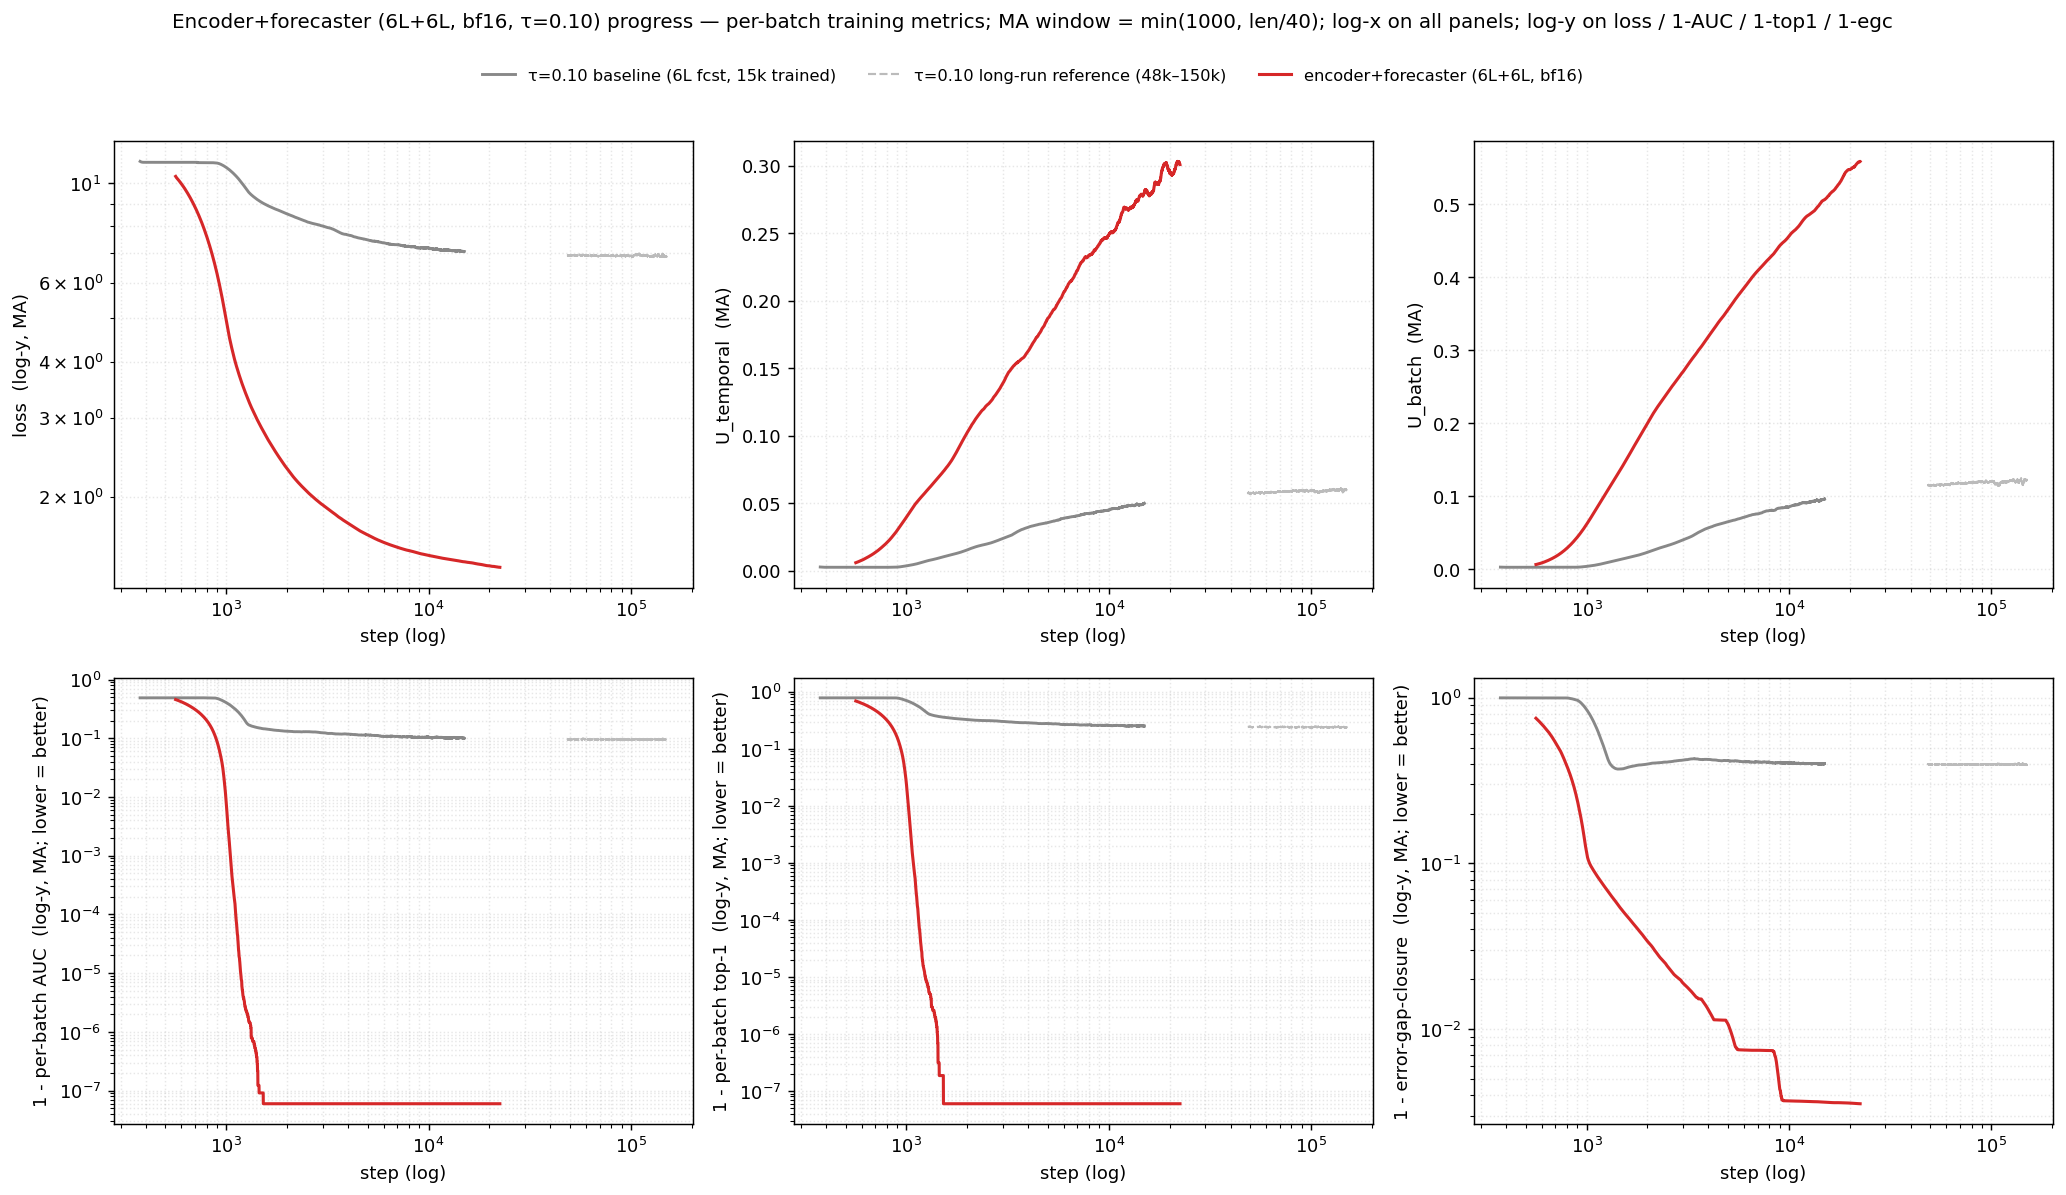
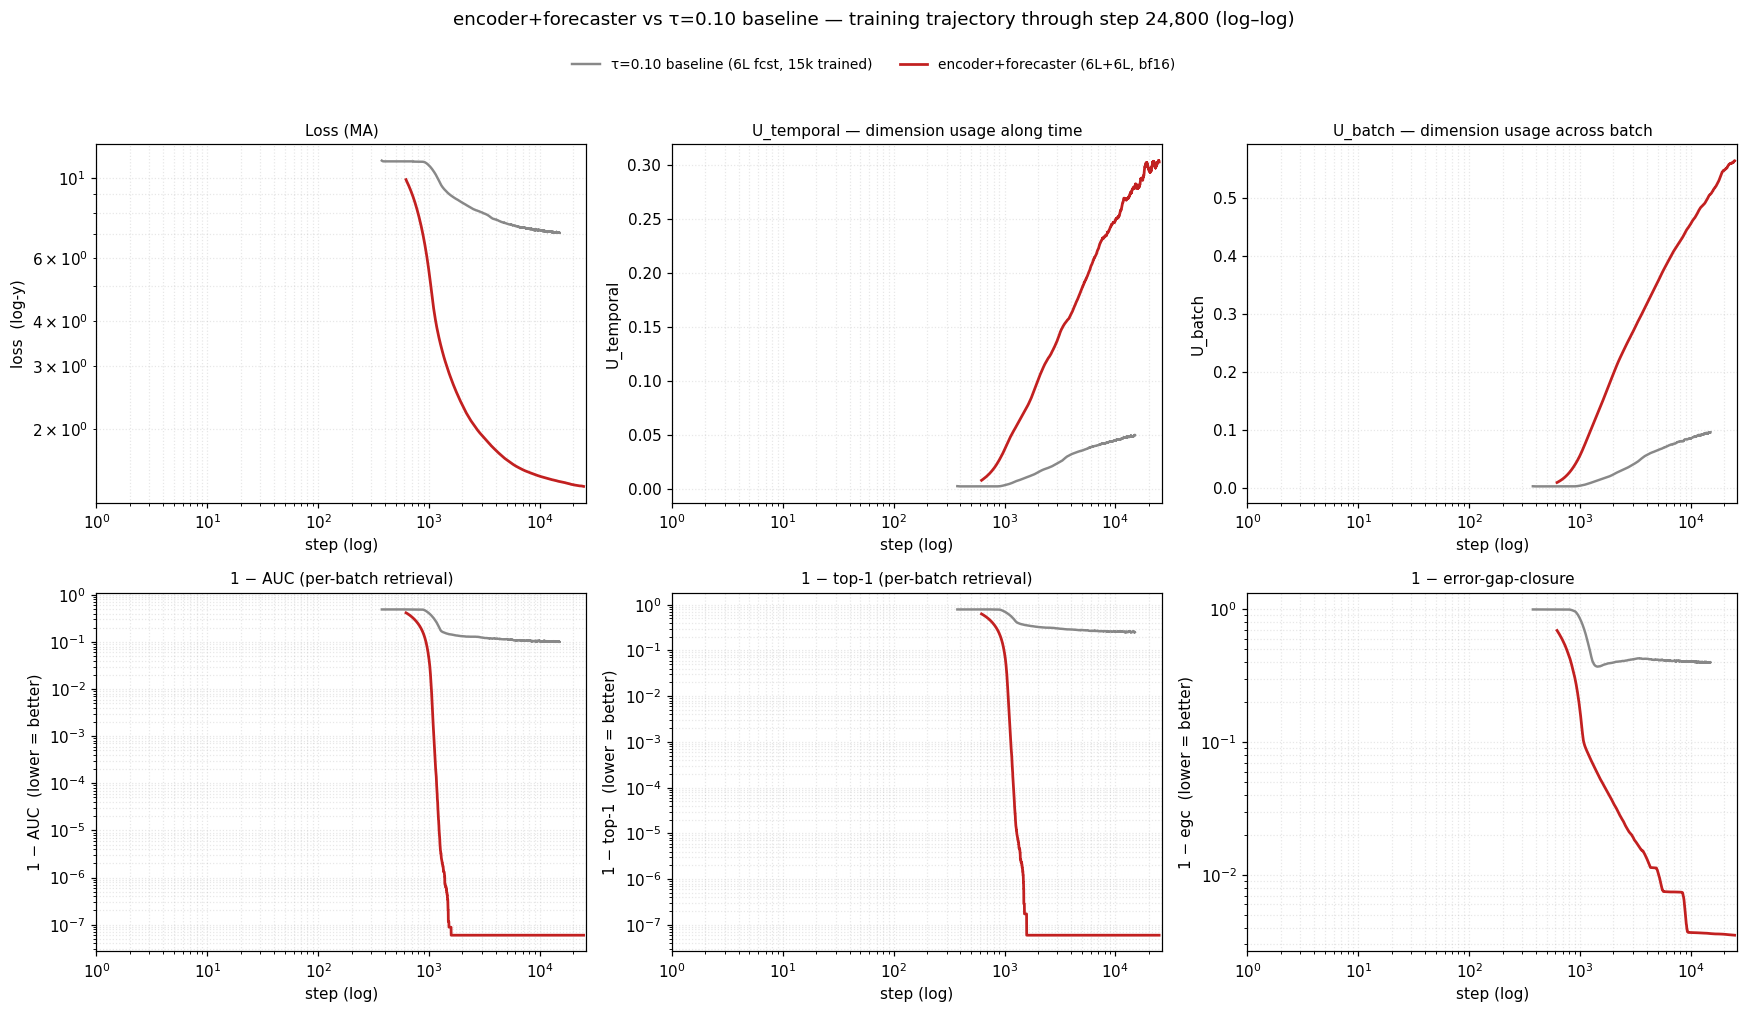
exp(encoder-forecaster): revised plots — color scheme + clipped x-axis + linear sibling
Pulls colors from experiments/2026-05-09_exp_loss_extensions/scripts/plot_square_diagram.py
(C_TOPB grey for baseline, C_RIGHT red for the new arm). Clips x-axis to
the new arm's current max step plus a small margin so the trajectory is
not visually compressed by the long-baseline 48k-150k overlay. Adds
panel-level titles and a configuration-aware suptitle.

Adds plots/progress_linear.png (same panels, no log axes; AUC/top-1/egc
still on 1-metric to keep small differences readable). PROGRESS.md
embeds both PNGs with explicit "log-log" / "linear" labels and is
re-rendered against the latest CSV slice (24,800 step current).

diff --git a/experiments/2026-05-10_exp_encoder_forecaster/scripts/plot_progress.py b/experiments/2026-05-10_exp_encoder_forecaster/scripts/plot_progress.py
@@ -4,14 +4,18 @@
 Reads per-step training-batch metrics from the losses CSVs and renders a
 2x3 panel of trajectories smoothed with a moving average:
 
-    loss (log-y)         |  U_temporal              |  U_batch
+    loss                 |  U_temporal              |  U_batch
     1 - per-batch AUC    |  1 - per-batch top-1     |  1 - error-gap-closure
-    (all log-y)            (log-y)                    (log-y)
 
-x-axis is `log(step)` on every panel. The `1 - metric` transform on a
-log y-axis (used in the τ-sweep plots) magnifies residual differences
-near the saturation point (auc/top1 → 1) while compressing the noisy
-plateau.
+Two PNGs are produced in one call:
+
+    plots/progress.png        — log-x on all panels; log-y on
+                                loss / 1-AUC / 1-top1 / 1-egc
+    plots/progress_linear.png — same panels, linear x; linear y for
+                                loss / U_temporal / U_batch; the AUC /
+                                top-1 / egc panels still show `1-metric`
+                                (linear y) so small residuals near 1 are
+                                visible.
 
 Error-gap-closure is a derived metric:
     egc = 1 - (1 - ff) / (1 - fp)
@@ -21,8 +25,10 @@ forecast and past embeddings (cross-batch reference). When fp < 1,
 egc=1 ⇒ perfect (ff=1), egc=0 ⇒ no improvement over fp, egc<0 ⇒ fp > ff.
 Guards: rows with fp ≥ 1 (denominator ≤ 0) are masked out of the plot.
 
-Outputs:
-    experiments/2026-05-10_exp_encoder_forecaster/plots/progress.png
+The x-axis upper bound is set from the new arm's current max step
+(plus a small margin), so the in-progress arm fills the figure instead
+of being squashed against the 150k long-baseline reference. The
+long-baseline reference curve is clipped to the visible x-range.
 
 Re-runnable. Worktree path is the script root; source CSVs are read
 from the MAIN checkout where the training writes them. No GPU usage.
@@ -38,29 +44,43 @@ import numpy as np
 
 
 # This script lives in <worktree>/experiments/2026-05-10_exp_encoder_forecaster/scripts.
-# Its output plot goes back into the same worktree experiment dir.
+# Its output plots go back into the same worktree experiment dir.
 WORKTREE = Path(__file__).resolve().parents[3]
 EXP_DIR = WORKTREE / "experiments/2026-05-10_exp_encoder_forecaster"
-OUT = EXP_DIR / "plots/progress.png"
-OUT.parent.mkdir(parents=True, exist_ok=True)
+OUT_LOG = EXP_DIR / "plots/progress.png"
+OUT_LIN = EXP_DIR / "plots/progress_linear.png"
+OUT_LOG.parent.mkdir(parents=True, exist_ok=True)
 
 # Training CSVs are written by the live run into the MAIN checkout. We
 # read from there read-only — never write into that tree.
 MAIN = Path("/home/jupyter/contrastive-forecasting")
 
-# (display_label, color, linestyle, lw, csv_path)
+# Color palette: reuse loss-extensions/τ-sweep conventions.
+#   - τ=0.10 baseline arms → grey  (#888 short, #bbb long reference, dashed)
+#   - encoder+forecaster (new "headline" arm) → loss-extensions
+#     "highlight new" red `#c22020` (square_diagram.py C_RIGHT — the
+#     NEW h-side batch edge, used as the boldest headline colour).
+C_BASELINE = "#888888"
+C_LONG_REF = "#bbbbbb"
+C_HEADLINE = "#c22020"
+
+# (display_label, color, linestyle, lw, csv_path, is_long_ref)
 ARMS = [
     ("τ=0.10 baseline (6L fcst, 15k trained)",
-     "#888888", "-", 1.6,
-     MAIN / "sync_tau_sweep/checkpoints/tau_sweep_0_10_losses.csv"),
+     C_BASELINE, "-", 1.6,
+     MAIN / "sync_tau_sweep/checkpoints/tau_sweep_0_10_losses.csv",
+     False),
     ("τ=0.10 long-run reference (48k–150k)",
-     "#bbbbbb", "--", 1.2,
-     MAIN / "sync_tau_sweep_0_10_150k/checkpoints/tau_sweep_0_10_150k_losses.csv"),
+     C_LONG_REF, "--", 1.2,
+     MAIN / "sync_tau_sweep_0_10_150k/checkpoints/tau_sweep_0_10_150k_losses.csv",
+     True),
     ("encoder+forecaster (6L+6L, bf16)",
-     "#d62728", "-", 1.7,
-     MAIN / "checkpoints/enc_fcst_tau_0_10_50k_losses.csv"),
+     C_HEADLINE, "-", 1.8,
+     MAIN / "checkpoints/enc_fcst_tau_0_10_50k_losses.csv",
+     False),
 ]
 
+NEW_ARM_CSV = MAIN / "checkpoints/enc_fcst_tau_0_10_50k_losses.csv"
 
 COLS = ("loss", "ff", "fp", "u_temporal", "u_batch", "auc", "top1")
 
@@ -82,7 +102,6 @@ def load_traj(path: Path) -> dict | None:
         out[k] = np.array([float(r[k]) for r in rows], dtype=np.float64)
     # derived: error-gap-closure = 1 - (1-ff)/(1-fp)
     denom = 1.0 - out["fp"]
-    # mask fp >= 1 (denom <= 0); rare in practice
     with np.errstate(divide="ignore", invalid="ignore"):
         egc = np.where(denom > 0, 1.0 - (1.0 - out["ff"]) / denom, np.nan)
     out["egc"] = egc
@@ -106,12 +125,19 @@ def last_window_mean(arr, n=200):
     return float(np.mean(a)) if len(a) else float("nan")
 
 
-def plot_panel(ax, traj_by_label, *, key, ylabel, transform, logy):
+def plot_panel(
+    ax, traj_by_label, *, key, ylabel, panel_title,
+    transform, logy, logx, xlim,
+):
     """Render one metric panel for all arms.
 
-    transform(y) optionally maps y → 1-y so log-y shows residual to 1.
+    transform(y) optionally maps y → 1-y so y-axis shows residual to 1.
+    Curves are clipped to xlim so the long-baseline reference doesn't
+    extend past the in-progress arm's visible window (it's still
+    rendered, just clipped to xlim[0]…xlim[1]).
     """
-    for (label, color, ls, lw, _path), arm in traj_by_label:
+    xmin, xmax = xlim
+    for (label, color, ls, lw, _path, _ref), arm in traj_by_label:
         if arm is None:
             continue
         n = len(arm["step"])
@@ -119,38 +145,127 @@ def plot_panel(ax, traj_by_label, *, key, ylabel, transform, logy):
         w = max(20, min(1000, n // 40))
         y = arm[key]
         y = transform(y) if transform is not None else y
-        # If transformed, mask non-positive entries before log so the plot
-        # doesn't error out (no clipping silently changes the curve).
+        # If transformed and log-y, mask non-positive entries before log
+        # so the plot doesn't error out (no clipping silently changes
+        # the curve).
         if logy and transform is not None:
             mask = np.isfinite(y) & (y > 0)
-            if not mask.any():
-                continue
-            x_steps = arm["step"][mask]
-            y = y[mask]
         else:
             mask = np.isfinite(y)
-            x_steps = arm["step"][mask]
-            y = y[mask]
+        if not mask.any():
+            continue
+        x_steps = arm["step"][mask]
+        y = y[mask]
         x_sm, y_sm = _aligned_smooth(x_steps, y, w)
-        ax.plot(x_sm, y_sm, color=color, linestyle=ls,
+        # Clip to the visible x-window. Without this the long-baseline
+        # reference would extend out to step 150k off-screen.
+        in_win = (x_sm >= xmin) & (x_sm <= xmax)
+        if not in_win.any():
+            continue
+        ax.plot(x_sm[in_win], y_sm[in_win], color=color, linestyle=ls,
                 linewidth=lw, label=label)
-    ax.set_xscale("log")
+    if logx:
+        ax.set_xscale("log")
     if logy:
         ax.set_yscale("log")
-    ax.set_xlabel("step (log)")
+    ax.set_xlim(xmin, xmax)
+    ax.set_title(panel_title, fontsize=10)
+    ax.set_xlabel("step" + (" (log)" if logx else ""))
     ax.set_ylabel(ylabel)
     ax.grid(alpha=0.3, which="both", ls=":")
 
 
+def render_figure(traj, *, logx, logy_metrics, out_path, scale_tag, xmax):
+    """Render one figure (log–log or linear) into `out_path`.
+
+    `logy_metrics` is a set of metric keys that get log-y axis. The
+    AUC / top-1 / egc panels always plot `1 - metric` so residuals
+    near 1.0 stay visible even in linear mode.
+    """
+    xmin = 1 if logx else 0
+    xlim = (xmin, xmax)
+
+    fig, axes = plt.subplots(2, 3, figsize=(16, 9))
+    ax_loss, ax_ut, ax_ub = axes[0]
+    ax_auc, ax_top1, ax_egc = axes[1]
+
+    plot_panel(
+        ax_loss, traj, key="loss",
+        ylabel="loss" + ("  (log-y)" if "loss" in logy_metrics else ""),
+        panel_title="Loss (MA)",
+        transform=None, logy="loss" in logy_metrics, logx=logx, xlim=xlim,
+    )
+    plot_panel(
+        ax_ut, traj, key="u_temporal",
+        ylabel="U_temporal",
+        panel_title="U_temporal — dimension usage along time",
+        transform=None, logy=False, logx=logx, xlim=xlim,
+    )
+    plot_panel(
+        ax_ub, traj, key="u_batch",
+        ylabel="U_batch",
+        panel_title="U_batch — dimension usage across batch",
+        transform=None, logy=False, logx=logx, xlim=xlim,
+    )
+    plot_panel(
+        ax_auc, traj, key="auc",
+        ylabel="1 − AUC  (lower = better)",
+        panel_title="1 − AUC (per-batch retrieval)",
+        transform=lambda y: 1.0 - y, logy="auc" in logy_metrics,
+        logx=logx, xlim=xlim,
+    )
+    plot_panel(
+        ax_top1, traj, key="top1",
+        ylabel="1 − top-1  (lower = better)",
+        panel_title="1 − top-1 (per-batch retrieval)",
+        transform=lambda y: 1.0 - y, logy="top1" in logy_metrics,
+        logx=logx, xlim=xlim,
+    )
+    plot_panel(
+        ax_egc, traj, key="egc",
+        ylabel="1 − egc  (lower = better)",
+        panel_title="1 − error-gap-closure",
+        transform=lambda y: 1.0 - y, logy="egc" in logy_metrics,
+        logx=logx, xlim=xlim,
+    )
+
+    # One shared legend at the top, drawn from the first non-empty panel.
+    handles, labels = ax_loss.get_legend_handles_labels()
+    if handles:
+        fig.legend(
+            handles, labels, loc="upper center",
+            ncol=len(handles), fontsize=9, frameon=False,
+            bbox_to_anchor=(0.5, 0.985),
+        )
+
+    fig.suptitle(
+        f"encoder+forecaster vs τ=0.10 baseline — training trajectory "
+        f"through step {xmax - 1500:,} ({scale_tag})",
+        fontsize=12, y=1.02,
+    )
+    fig.tight_layout(rect=(0, 0, 1, 0.96))
+    fig.savefig(out_path, dpi=110, bbox_inches="tight")
+    plt.close(fig)
+    print(f"[plot] wrote {out_path}")
+
+
 def main() -> None:
+    # Determine the in-progress arm's current max step → drives xlim.
+    new_arm = load_traj(NEW_ARM_CSV)
+    if new_arm is None or len(new_arm["step"]) == 0:
+        raise SystemExit(f"new-arm CSV missing or empty: {NEW_ARM_CSV}")
+    max_step = int(new_arm["step"].max())
+    # Small margin so the curve doesn't run flush against the right edge.
+    xmax = max_step + 1500
+
     # Load all CSVs once.
     traj = []
     for arm in ARMS:
-        d = load_traj(arm[-1])
+        d = load_traj(arm[4])
         traj.append((arm, d))
         label = arm[0]
         if d is None:
-            print(f"[plot] SKIP {label}: {arm[-1]} not found")
+            print(f"[plot] SKIP {label}: {arm[4]} not found")
         else:
             n = len(d["step"])
             print(
@@ -163,42 +278,29 @@ def main() -> None:
                 f"egc={last_window_mean(d['egc']):.3f}"
             )
 
-    fig, axes = plt.subplots(2, 3, figsize=(16, 9))
-    ax_loss, ax_ut, ax_ub = axes[0]
-    ax_auc, ax_top1, ax_egc = axes[1]
+    print(f"[plot] in-progress arm max step = {max_step}; xlim upper = {xmax}")
 
-    plot_panel(ax_loss, traj, key="loss", ylabel="loss  (log-y, MA)",
-               transform=None, logy=True)
-    plot_panel(ax_ut, traj, key="u_temporal",
-               ylabel="U_temporal  (MA)", transform=None, logy=False)
-    plot_panel(ax_ub, traj, key="u_batch",
-               ylabel="U_batch  (MA)", transform=None, logy=False)
-    plot_panel(ax_auc, traj, key="auc",
-               ylabel="1 - per-batch AUC  (log-y, MA; lower = better)",
-               transform=lambda y: 1.0 - y, logy=True)
-    plot_panel(ax_top1, traj, key="top1",
-               ylabel="1 - per-batch top-1  (log-y, MA; lower = better)",
-               transform=lambda y: 1.0 - y, logy=True)
-    plot_panel(ax_egc, traj, key="egc",
-               ylabel="1 - error-gap-closure  (log-y, MA; lower = better)",
-               transform=lambda y: 1.0 - y, logy=True)
-
-    # One shared legend at the top, drawn from the first non-empty panel.
-    handles, labels = ax_loss.get_legend_handles_labels()
-    if handles:
-        fig.legend(handles, labels, loc="upper center",
-                   ncol=len(handles), fontsize=9, frameon=False,
-                   bbox_to_anchor=(0.5, 0.985))
-
-    fig.suptitle(
-        "Encoder+forecaster (6L+6L, bf16, τ=0.10) progress — per-batch "
-        "training metrics; MA window = min(1000, len/40); log-x on all panels; "
-        "log-y on loss / 1-AUC / 1-top1 / 1-egc",
-        fontsize=11, y=1.02,
+    # Log–log: log y on loss / 1-AUC / 1-top1 / 1-egc; log x throughout.
+    render_figure(
+        traj,
+        logx=True,
+        logy_metrics={"loss", "auc", "top1", "egc"},
+        out_path=OUT_LOG,
+        scale_tag="log–log",
+        xmax=xmax,
     )
-    fig.tight_layout(rect=(0, 0, 1, 0.96))
-    fig.savefig(OUT, dpi=130, bbox_inches="tight")
-    print(f"[plot] wrote {OUT}")
+
+    # Linear: no log on anything. The AUC / top-1 / egc panels still
+    # show `1 − metric` so small residuals near 1 stay visible on a
+    # linear y-axis (no `set_yscale('log')`).
+    render_figure(
+        traj,
+        logx=False,
+        logy_metrics=set(),
+        out_path=OUT_LIN,
+        scale_tag="linear",
+        xmax=xmax,
+    )
 
 
 if __name__ == "__main__":

diff --git a/experiments/2026-05-10_exp_encoder_forecaster/PROGRESS.md b/experiments/2026-05-10_exp_encoder_forecaster/PROGRESS.md
@@ -2,7 +2,13 @@
 
 Training a GRU patch embedding → 6 causal transformer-encoder layers → 6 causal transformer-forecaster layers at τ=0.10 with bf16 autocast, otherwise identical to the τ-sweep baseline (`run_encoder_forecaster.sh` on elisa GPU 1, target 50k steps, batch 256).
 
-![progress](plots/progress.png)
+**log–log scale**
+
+![progress (log–log)](plots/progress.png)
+
+**linear scale**
+
+![progress (linear)](plots/progress_linear.png)
 
 ## Per-batch training metrics at the baseline's last common step (~15k)
 
@@ -12,16 +18,16 @@ Means over the last 200 steps of each window.
 |---|---:|---:|---:|---:|---:|---:|---:|
 | τ=0.10 baseline (6L fcst) | 15 000 | 7.040 | 0.050 | 0.096 | 0.8982 | 0.7472 | 0.599 |
 | encoder+forecaster (6L+6L, bf16) @ 15k | 14 800–14 999 | 1.432 | 0.283 | 0.507 | 1.0000 | 1.0000 | 0.996 |
-| encoder+forecaster (6L+6L, bf16) — CURRENT | 22 300–22 500 | 1.392 | 0.299 | 0.560 | 1.0000 | 1.0000 | 0.997 |
+| encoder+forecaster (6L+6L, bf16) — CURRENT | 24 601–24 800 | 1.387 | 0.300 | 0.565 | 1.0000 | 1.0000 | 0.996 |
 
-For reference the long-run τ=0.10 baseline (separately resumed, 48k–150k segment) lands at loss=6.917, U_t=0.059, U_b=0.119, AUC=0.9011, top1=0.7562, egc=0.603 by step 150k — i.e. the baseline's per-batch metrics barely move past 15k.
+For reference the long-run τ=0.10 baseline (separately resumed, 48k–150k segment) lands at loss=6.917, U_t=0.059, U_b=0.119, AUC=0.9011, top1=0.7562, egc=0.603 by step 150k — i.e. the baseline's per-batch metrics barely move past 15k. That long reference is omitted from the trajectory plots above because the in-progress arm currently only reaches ~25k; including it would compress the visible curves.
 
 ## What the curves show
 
-On the per-batch training metrics plotted (log-x, with `1-metric` on log-y for AUC / top-1 / error-gap-closure), the encoder+forecaster arm separates from the τ=0.10 baseline within the first few hundred steps and stays separated through 22.5k. Loss settles around 1.4 vs the baseline's ~7.0 plateau, and the per-batch AUC and top-1 saturate at the numerical 1.0 floor while the baseline holds at ~0.90 / ~0.75. Error-gap-closure tracks the same picture: the new arm closes ~99.7 % of the cosine-similarity gap between the cross-batch reference (`fp`) and a perfect positive, vs ~0.60 for the baseline. Dimension usage is also much higher under the encoder arm (U_temporal 0.28 vs 0.05; U_batch 0.51 vs 0.10 at 15k) and is still rising. The new arm's curves show no sign of degradation across the 22.5k steps seen so far.
+On the per-batch training metrics plotted (with `1-metric` on the y-axis for AUC / top-1 / error-gap-closure), the encoder+forecaster arm separates from the τ=0.10 baseline within the first few hundred steps and stays separated through 24.8k. Loss settles around 1.4 vs the baseline's ~7.0 plateau, and the per-batch AUC and top-1 saturate at the numerical 1.0 floor while the baseline holds at ~0.90 / ~0.75. Error-gap-closure tracks the same picture: the new arm closes ~99.6 % of the cosine-similarity gap between the cross-batch reference (`fp`) and a perfect positive, vs ~0.60 for the baseline. Dimension usage is also much higher under the encoder arm (U_temporal 0.28 vs 0.05; U_batch 0.51 vs 0.10 at 15k) and is still rising. The new arm's curves show no sign of degradation across the 24.8k steps seen so far.
 
 ## Caveats
 
-- Training is still running (~22.5k of 50k). Numbers will move.
+- Training is still running (~24.8k of 50k). Numbers will move.
 - All AUC / top-1 / loss / egc values plotted are PER-BATCH on the training distribution (256 samples, in-distribution). They are not held-out and do not directly speak to GIFT-Eval metrics. Per-batch AUC=1.0 means perfect retrieval within a 256-sample minibatch, not zero error on real forecasts.
 - The encoder arm's `fp` (cross-batch reference cosine) goes negative, while the baseline keeps `fp` ≈ +0.17. Some of the "egc improvement" is the denominator `(1 - fp)` widening, not the numerator `(1 - ff)` shrinking. Held-out eval is needed to interpret.
